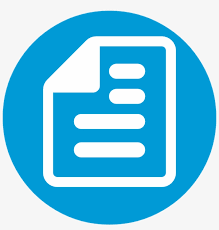
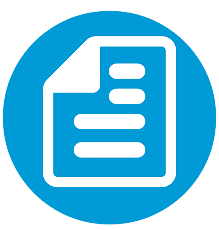
CSS has been changed for the home page

diff --git a/src/pages/Home.js b/src/pages/Home.js
@@ -112,7 +112,8 @@ export default class Home extends Component {
                         <div style={{ flex: 1, display: 'flex', flexDirection: 'column', paddingRight: '20px' }}>
                             <img src={AboutSC3} width="70" height="70" style={{ alignSelf: 'center' }} />
                             <h5>About SC3</h5>
-                            <p style={{ textAlign: 'justify' }}>
+                            <p />
+                            <p style={{ textAlign: 'justify', marginTop: '8px', fontFamily: 'normal', fontSize: '18px' }}>
                                 SC3 establishes a standard language for comprehensive collaboration between humans and machines, as well as all other
                                 partners.The key objective of this platform is to implement data documentation of an actionable ontology-based
                                 ecosystem that consists of a top-level ontology, adapted from existing domain ontologies, and complemented by new ones
@@ -150,7 +151,7 @@ export default class Home extends Component {
                         >
                             <img src={Usecase} width="70" height="70" style={{ alignSelf: 'center' }} />
                             <h5 style={{ paddingBottom: '10px' }}>What the portal can do for you</h5>
-                            <p style={{ textAlign: 'justify' }}>
+                            <p style={{ textAlign: 'justify', marginTop: '15px', fontFamily: 'normal', fontSize: '18px' }}>
                                 We identified that the most crucial requirement for ontology development is to serve users' needs from various
                                 audiences with diverse backgrounds and in different contexts. We have therefore introduced several modes of
                                 operations.
@@ -160,8 +161,8 @@ export default class Home extends Component {
                         <div style={{ flex: 1, display: 'flex', flexDirection: 'column', paddingLeft: '20px', marginRight: '20px' }}>
                             <img src={guidance} width="70" height="70" style={{ alignSelf: 'center' }} />
                             <h5>Framework for collaborative ontology development</h5>
-                            <p style={{ textAlign: 'justify', cursor: 'pointer' }}>
-                                {this.state.isreadmore ? FrameworkText : FrameworkText.substring(0, 200)}
+                            <p style={{ textAlign: 'justify', cursor: 'pointer', fontFamily: 'normal', fontSize: '18px' }}>
+                                {this.state.isreadmore ? FrameworkText : FrameworkText.substring(0, 500)}
                                 <span style={{ color: 'blue', fontWeight: 600 }} onClick={this.toggleReadmore}>
                                     {this.state.isreadmore ? ' Read Less' : ' ...Read More'}
                                 </span>